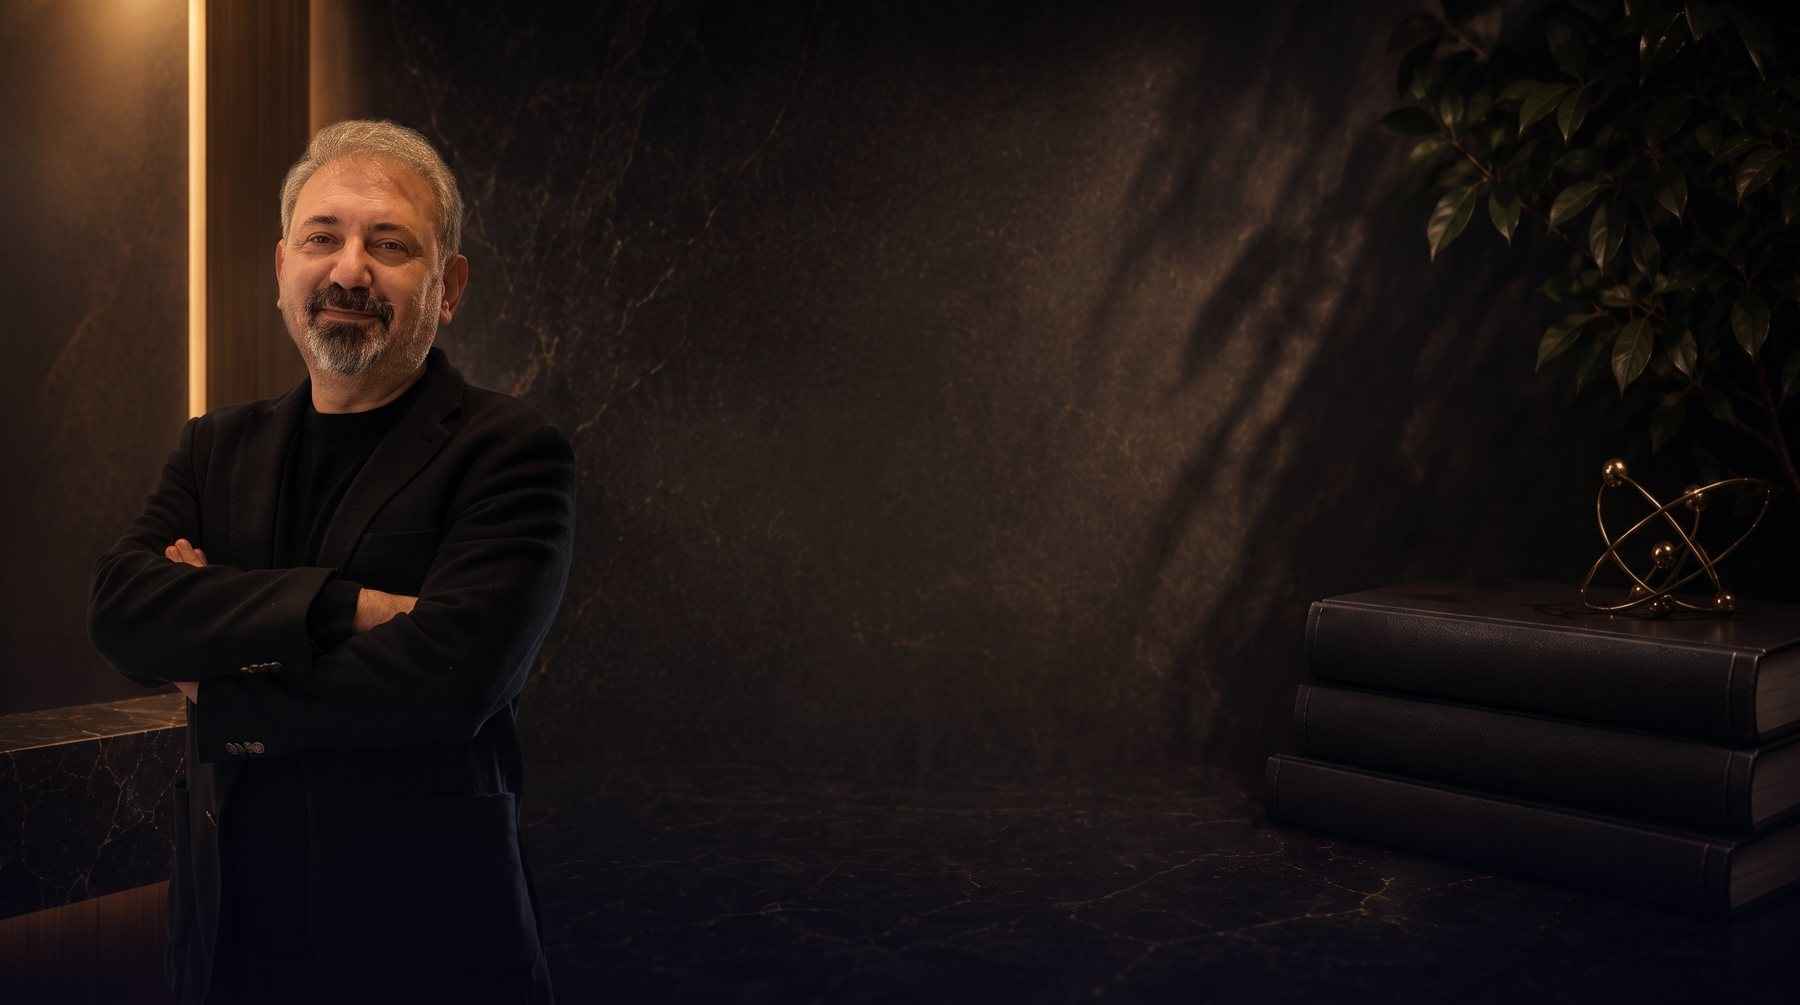
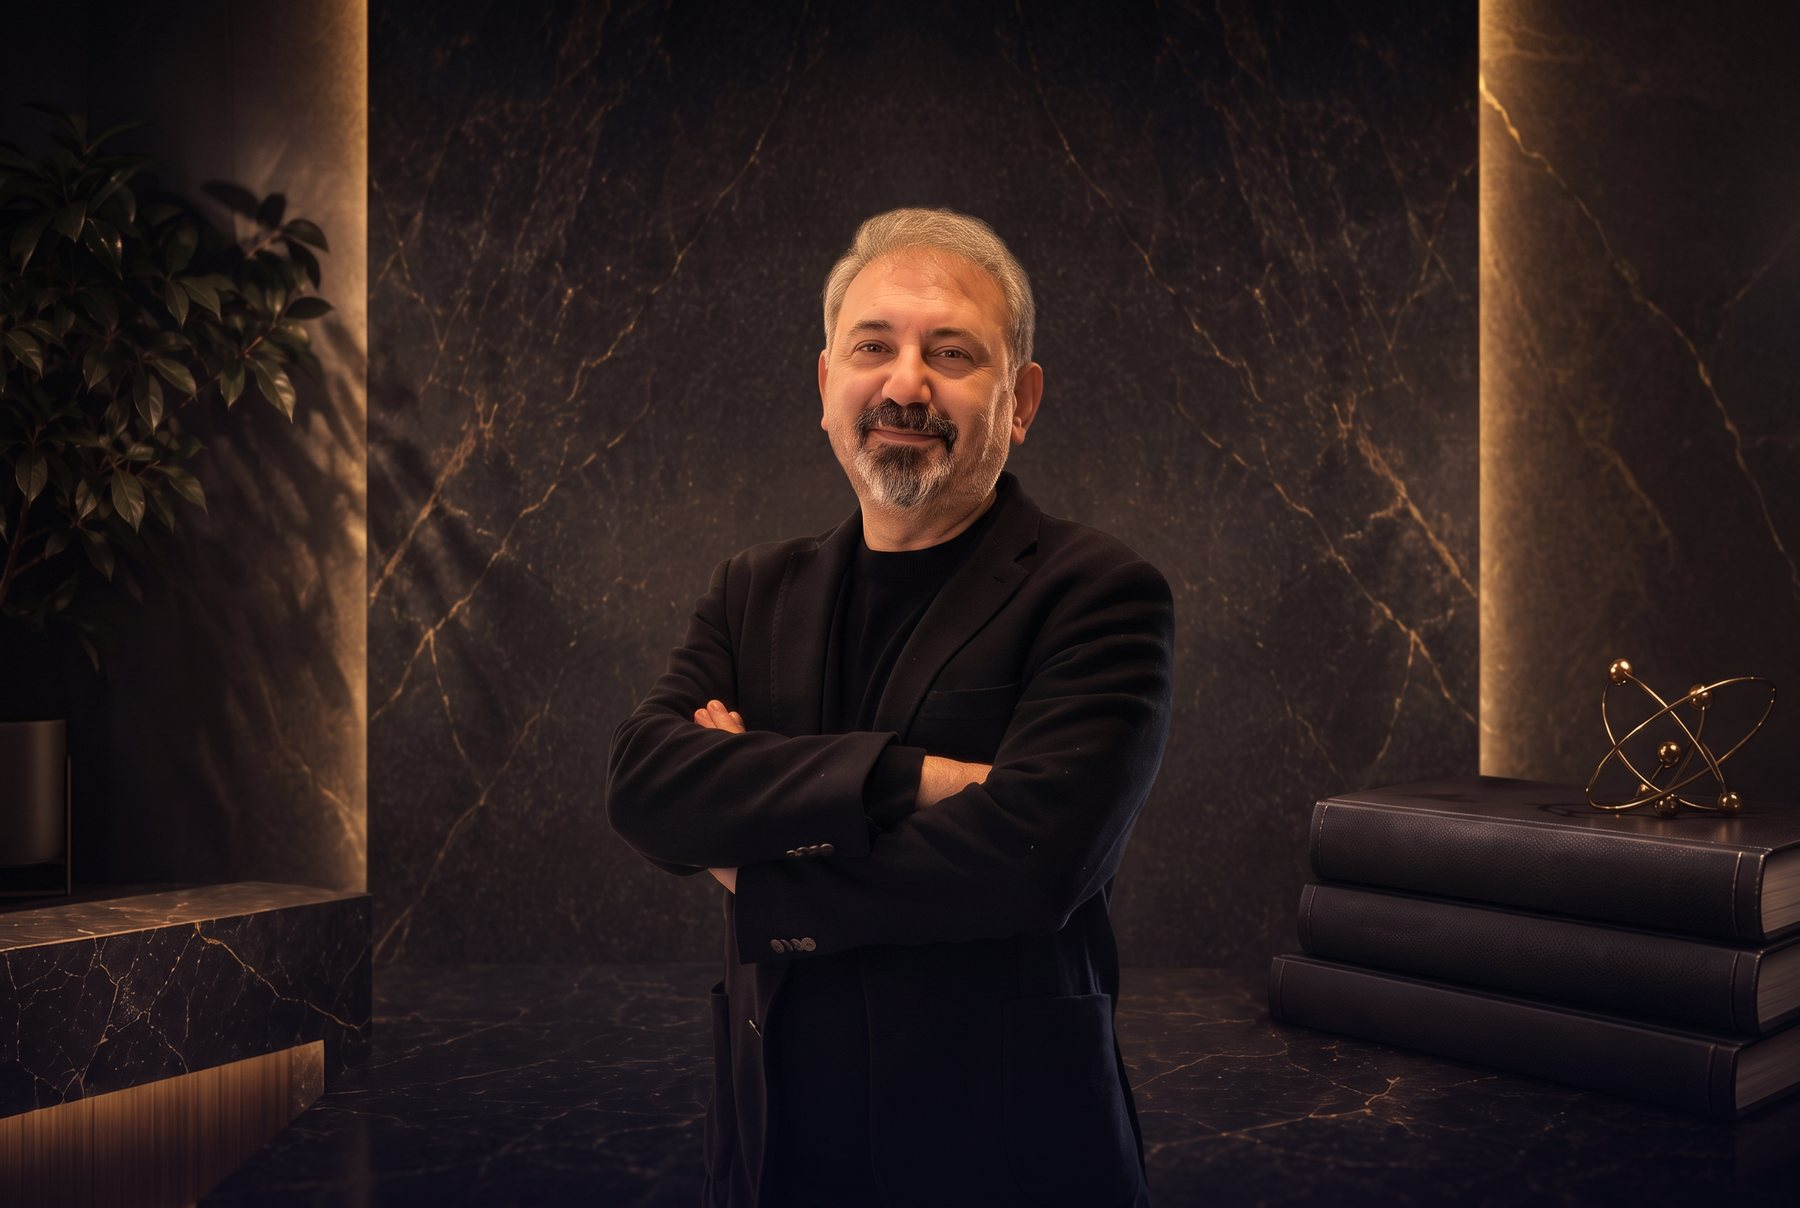
Recompose Teoman portrait centered; pair it beside AtaShading, placeholders to 3-up

diff --git a/components/Portfolio.tsx b/components/Portfolio.tsx
@@ -6,12 +6,12 @@ import { useI18n } from "@/lib/i18n";
 const PROJECTS = [
   { t: "work_p2_t", c: "work_p2_c", span: "span-6", img: "/work/viavita.jpg", pos: "center" },
   { t: "work_p1_t", c: "work_p1_c", span: "span-6", img: "/work/hatnaturel.jpg", pos: "center" },
-  { t: "work_teoman_t", c: "work_teoman_c", span: "span-12", img: "/work/teoman.jpg", pos: "center", cls: "feature-fit" },
   { t: "work_p3_t", c: "work_p3_c", span: "span-5", img: "/work/atashading.jpg", pos: "center" },
-  { t: "work_p4_t", c: "work_p4_c", span: "span-7" },
+  { t: "work_teoman_t", c: "work_teoman_c", span: "span-7", img: "/work/teoman.jpg", pos: "center" },
   { t: "work_merv_t", c: "work_merv_c", span: "span-12", img: "/work/mervmix.jpg", pos: "center", cls: "feature-fit" },
-  { t: "work_p5_t", c: "work_p5_c", span: "span-6" },
-  { t: "work_p6_t", c: "work_p6_c", span: "span-6" },
+  { t: "work_p4_t", c: "work_p4_c", span: "span-4" },
+  { t: "work_p5_t", c: "work_p5_c", span: "span-4" },
+  { t: "work_p6_t", c: "work_p6_c", span: "span-4" },
 ];
 
 export default function Portfolio() {

diff --git a/app/globals.css b/app/globals.css
@@ -817,6 +817,7 @@ h2.display { font-size: clamp(2.1rem, 4.6vw, 3.9rem); }
 .proj.span-7 { grid-column: span 7; }
 .proj.span-5 { grid-column: span 5; }
 .proj.span-6 { grid-column: span 6; }
+.proj.span-4 { grid-column: span 4; }
 .proj.span-12 { grid-column: span 12; }
 .proj.tall { min-height: 400px; }
 .proj.feature { min-height: 460px; }
@@ -1057,7 +1058,7 @@ html.has-cursor .srow {
   .bento .bcard, .bcard.b7, .bcard.b5, .bcard.b4 { grid-column: span 12; }
   .about-grid, .cta-banner { grid-template-columns: 1fr; gap: 40px; }
   .testi-grid { grid-template-columns: 1fr; }
-  .proj.span-7, .proj.span-5, .proj.span-6 { grid-column: span 12; }
+  .proj.span-7, .proj.span-5, .proj.span-6, .proj.span-4 { grid-column: span 12; }
 }
 @media (max-width: 760px) {
   .container { padding: 0 20px; }